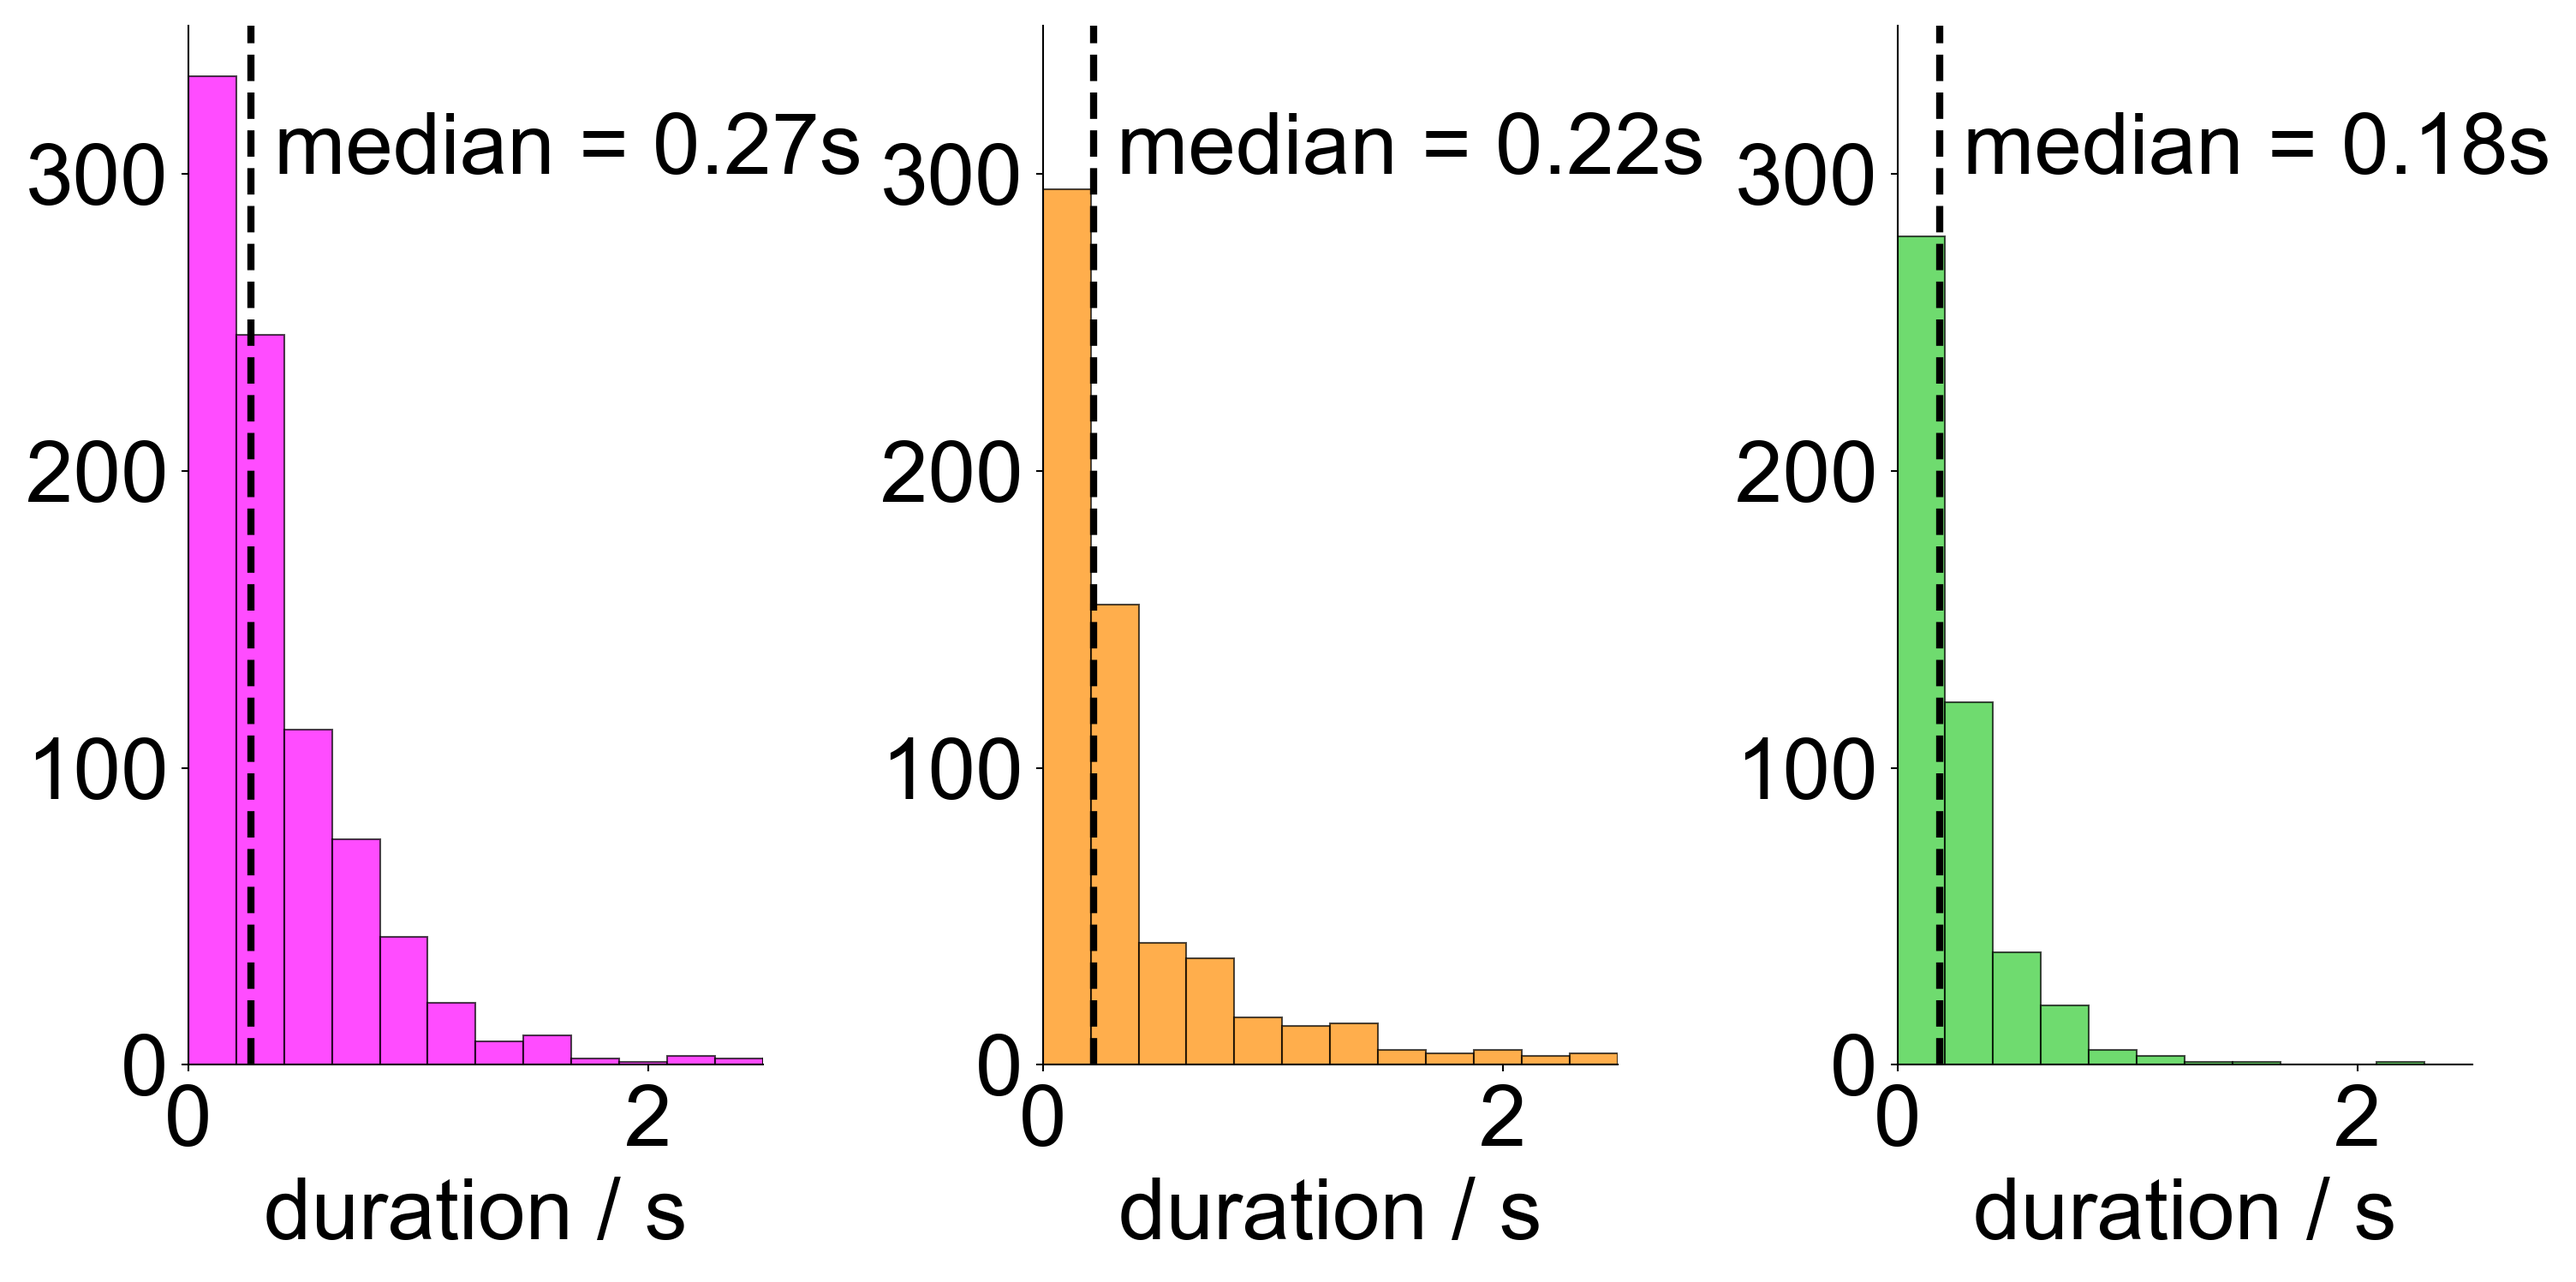
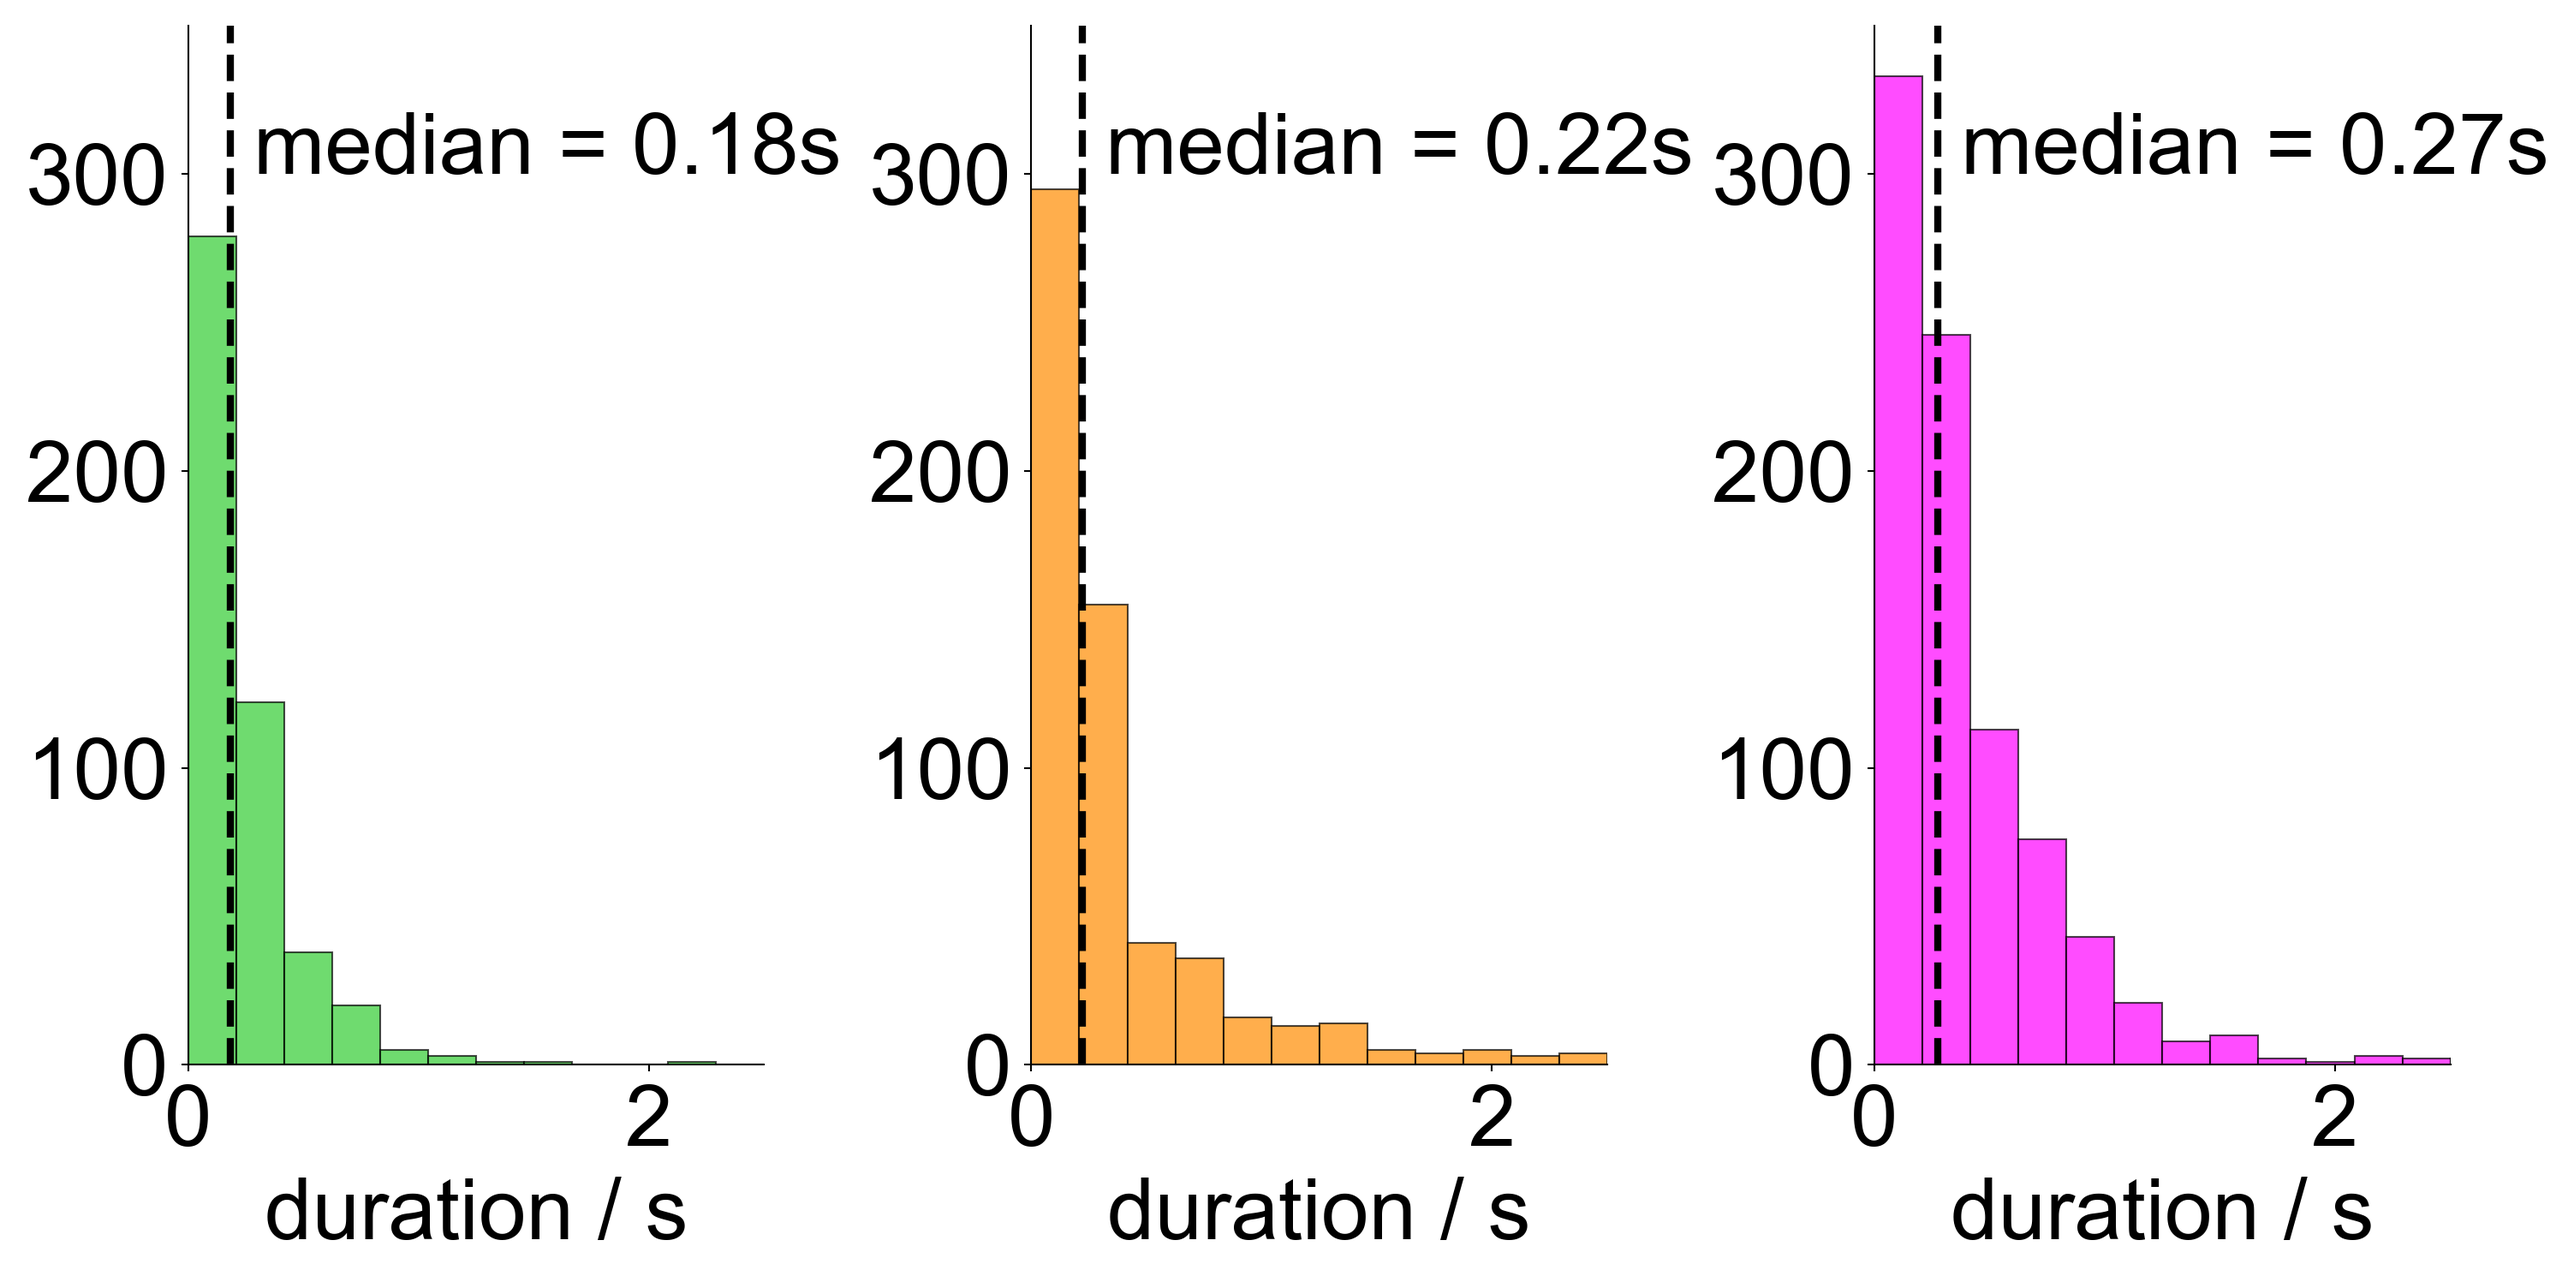
Fix fig4a panel order and fig4b baseline to match manuscript
- Fig4a: reverse panel order to 8, 28, 140 Hz (left to right)
- Fig4b: use 10s pre-stim baseline (meanFR_pre_10s) with 100ms
  stim-on window, consistent with the original analysis
- Allow pre_col/stim_col overrides in analysis_transient helpers

diff --git a/src/analysis_transient.py b/src/analysis_transient.py
@@ -14,7 +14,8 @@ from src.data_loading_transient import select_units, get_fr_columns
 
 # ── Panel 4b helpers ──────────────────────────────────────────────────────
 
-def compute_area_fr_stats(df, freq, amplitude, area, eval_window='100ms'):
+def compute_area_fr_stats(df, freq, amplitude, area, eval_window='100ms',
+                          pre_col=None, stim_col=None):
     """
     Paired t-test on within-unit FR difference (stim − pre) for one area.
 
@@ -33,7 +34,8 @@ def compute_area_fr_stats(df, freq, amplitude, area, eval_window='100ms'):
     if len(sub) == 0:
         return None
 
-    pre_col, stim_col, _ = get_fr_columns(eval_window)
+    if pre_col is None or stim_col is None:
+        pre_col, stim_col, _ = get_fr_columns(eval_window)
     fr_pre = sub[pre_col].values
     fr_stim = sub[stim_col].values
 
@@ -54,7 +56,8 @@ def compute_area_fr_stats(df, freq, amplitude, area, eval_window='100ms'):
 
 
 def analyze_all_areas_transient(df, freq, amplitude, areas,
-                                eval_window='100ms'):
+                                eval_window='100ms',
+                                pre_col=None, stim_col=None):
     """
     Run :func:`compute_area_fr_stats` for every area, then FDR-correct.
 
@@ -66,7 +69,8 @@ def analyze_all_areas_transient(df, freq, amplitude, areas,
     """
     results = {}
     for area in areas:
-        r = compute_area_fr_stats(df, freq, amplitude, area, eval_window)
+        r = compute_area_fr_stats(df, freq, amplitude, area, eval_window,
+                                  pre_col=pre_col, stim_col=stim_col)
         if r is not None:
             results[area] = r
 

diff --git a/scripts/fig4_brain_wide_fr.py b/scripts/fig4_brain_wide_fr.py
@@ -29,7 +29,10 @@ def main():
 
     amplitude = 5
     eval_window = '100ms'
-    pre_col, stim_col, _ = get_fr_columns(eval_window)
+    # Panel 4b uses 10s pre-stim baseline with 100ms stim-on window,
+    # matching the original manuscript code.
+    pre_col = 'meanFR_pre_10s'
+    stim_col = 'meanFR_stimOn_01s'
     freqs = FREQUENCIES  # 8, 28, 140
     areas = FIGURE4_AREAS
     ymax = 230
@@ -42,7 +45,8 @@ def main():
 
         # Paired t-test + FDR correction across all areas
         results = analyze_all_areas_transient(
-            df, freq, amplitude, areas, eval_window)
+            df, freq, amplitude, areas, eval_window,
+            pre_col=pre_col, stim_col=stim_col)
 
         clus_ = 0
         for a, area in enumerate(areas):

diff --git a/scripts/fig4_duration.py b/scripts/fig4_duration.py
@@ -20,7 +20,7 @@ def main():
     df = load_transient_data()
 
     amplitude = 5
-    freqs = FREQUENCIES[::-1]  # 140, 28, 8 – matches original column order
+    freqs = FREQUENCIES  # 8, 28, 140 Hz – left to right
 
     fig, axes = plt.subplots(1, len(freqs), figsize=(10, 5))
 
